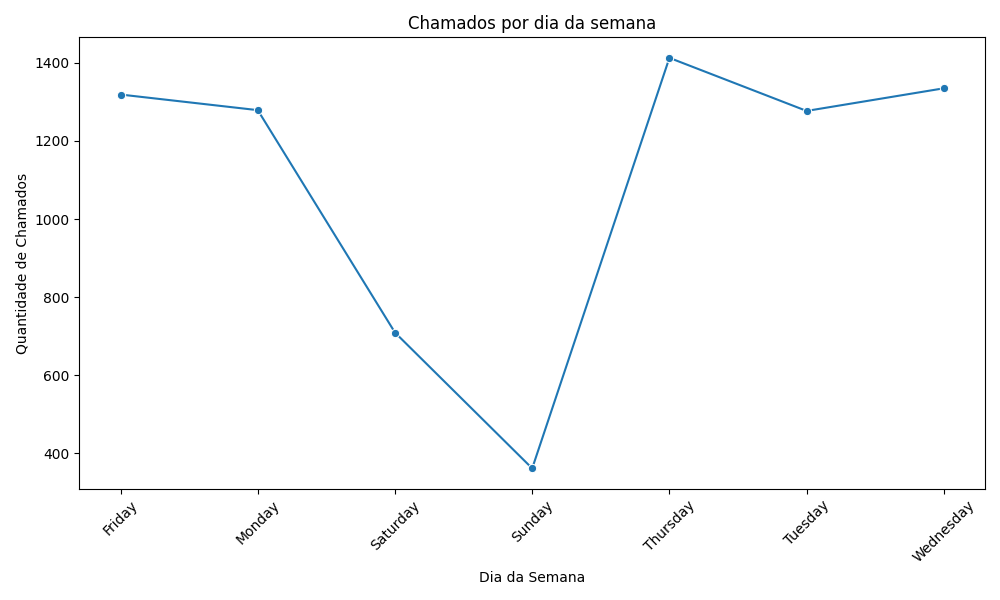
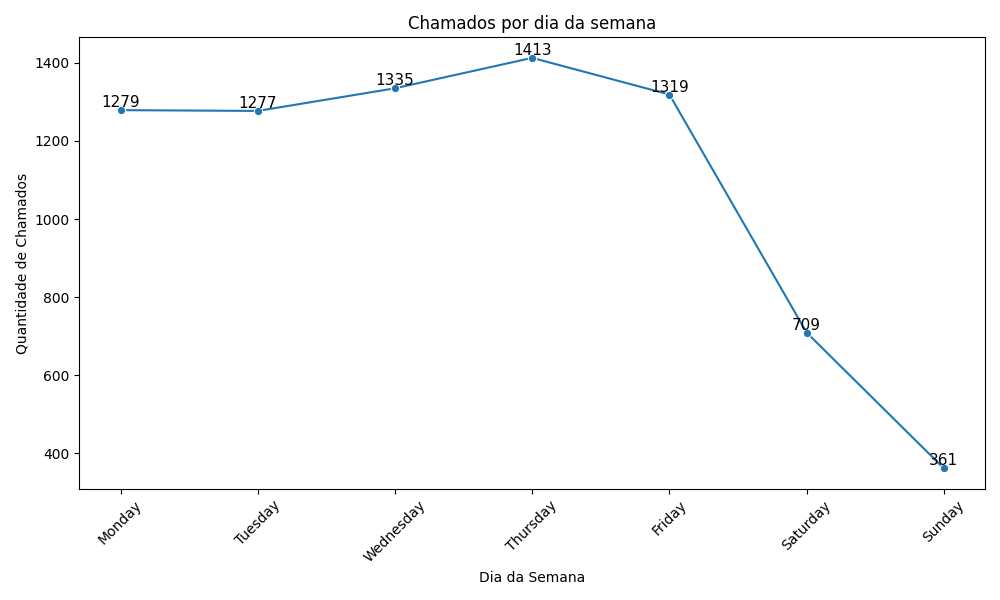
Atualização de graficos

diff --git a/src/analise_geral.py b/src/analise_geral.py
@@ -5,13 +5,46 @@ import seaborn as sns
 def resumo_geral(df: pd.DataFrame):
     """Exibe um resumo geral dos dados carregados."""
     
+    # Ordenar a coluna 'Dia_Semana' com a sequência correta
+    dias_da_semana = ['Monday', 'Tuesday', 'Wednesday', 'Thursday', 'Friday', 'Saturday', 'Sunday']
+    df['Dia_Semana'] = pd.Categorical(df['Dia_Semana'], categories=dias_da_semana, ordered=True)
+
     # Chamados por dia da semana
+    chamados_por_dia = df['Dia_Semana'].value_counts().sort_index()
+
     print("🔹 Chamados por dia da semana:")
-    print(df['Dia_Semana'].value_counts())
+    print(chamados_por_dia)
+
+    # Gráfico de chamados por dia da semana (com valores exatos)
+    plt.figure(figsize=(10, 6))
+    sns.barplot(x=chamados_por_dia.index, y=chamados_por_dia.values, palette='viridis')
+    for i, v in enumerate(chamados_por_dia.values):
+        plt.text(i, v + max(chamados_por_dia.values)*0.01, str(v), ha='center', va='bottom', fontsize=11)
+    plt.title('Chamados por dia da semana')
+    plt.xlabel('Dia da Semana')
+    plt.ylabel('Quantidade de Chamados')
+    plt.xticks(rotation=45)
+    plt.tight_layout()
+    plt.savefig('graficos/chamados_por_dia.png')
+    plt.show()
 
     # Chamados por hora do dia
     print("\n🔹 Chamados por hora do dia:")
-    print(df['Hora'].value_counts().sort_index())
+    chamados_por_hora = df['Hora'].value_counts().sort_index()
+    print(chamados_por_hora)
+
+    # Gráfico de chamados por hora do dia (com valores exatos)
+    plt.figure(figsize=(10, 6))
+    sns.barplot(x=chamados_por_hora.index, y=chamados_por_hora.values, palette='Blues')
+    for i, v in enumerate(chamados_por_hora.values):
+        plt.text(i, v + max(chamados_por_hora.values)*0.01, str(v), ha='center', va='bottom', fontsize=11)
+    plt.title('Chamados por hora do dia')
+    plt.xlabel('Hora do Dia')
+    plt.ylabel('Quantidade de Chamados')
+    plt.xticks(rotation=45)
+    plt.tight_layout()
+    plt.savefig('graficos/chamados_por_hora.png')
+    plt.show()
 
     # Percentual de chamados com avaliação
     if 'Avaliação' in df.columns:
@@ -32,28 +65,3 @@ def resumo_geral(df: pd.DataFrame):
         print(f"Tempo médio: {tempo_medio.mean()}")
     else:
         print("Colunas 'Iniciado_em' ou 'Finalizado_em' não encontradas.")
-    
-    # Gerar gráficos
-    # Gráfico de chamados por dia da semana
-    chamados_por_dia = df['Dia_Semana'].value_counts().sort_index()
-    plt.figure(figsize=(10, 6))
-    sns.barplot(x=chamados_por_dia.index, y=chamados_por_dia.values, palette='viridis')
-    plt.title('Chamados por dia da semana')
-    plt.xlabel('Dia da Semana')
-    plt.ylabel('Quantidade de Chamados')
-    plt.xticks(rotation=45)
-    plt.tight_layout()
-    plt.savefig('graficos/chamados_por_dia.png')  # Salvar o gráfico
-    plt.show()
-
-    # Gráfico de chamados por hora do dia
-    chamados_por_hora = df['Hora'].value_counts().sort_index()
-    plt.figure(figsize=(10, 6))
-    sns.barplot(x=chamados_por_hora.index, y=chamados_por_hora.values, palette='Blues')
-    plt.title('Chamados por hora do dia')
-    plt.xlabel('Hora do Dia')
-    plt.ylabel('Quantidade de Chamados')
-    plt.xticks(rotation=45)
-    plt.tight_layout()
-    plt.savefig('graficos/chamados_por_hora.png')  # Salvar o gráfico
-    plt.show()

diff --git a/src/previsao_chamados.py b/src/previsao_chamados.py
@@ -10,44 +10,31 @@ def previsao_volume_chamados(df: pd.DataFrame):
     df.columns = df.columns.str.strip()
 
     # Verifica se a coluna 'Iniciado em' existe
-    if 'Iniciado em' not in df.columns:
-        print("Coluna 'Iniciado em' não encontrada no DataFrame. Colunas disponíveis:", df.columns)
+    if 'Iniciado_em' not in df.columns:
+        print("Coluna 'Iniciado_em' não encontrada no DataFrame.")
         return
-    
-    # Converte a coluna 'Iniciado em' para o formato de data (formato dd/mm/yyyy hh:mm)
-    df['Iniciado em'] = pd.to_datetime(df['Iniciado em'], format='%d/%m/%Y %H:%M', errors='coerce')
 
-    # Verifica se houve erro na conversão (por exemplo, valores inválidos)
-    if df['Iniciado em'].isnull().any():
-        print("Existem valores inválidos na coluna 'Iniciado em'. Verifique os dados.")
-        return
-    
-    # Extração da semana do ano
-    df['Semana'] = df['Iniciado em'].dt.isocalendar().week
-    print("\n🔹 Previsão de volume de chamados por semana:")
+    # Converte para datetime
+    df['Iniciado_em'] = pd.to_datetime(df['Iniciado_em'], errors='coerce')
+    df['Semana'] = df['Iniciado_em'].dt.isocalendar().week
+
+    # Contagem de chamados por semana
     chamados_por_semana = df['Semana'].value_counts().sort_index()
+    print(f"\n🔹 Chamados por semana:")
     print(chamados_por_semana)
-    
-    # Gráfico (se necessário, adapte conforme os requisitos)
+
+    # Gráfico de chamados por semana
     plt.figure(figsize=(10, 6))
-    ax = sns.lineplot(x=chamados_por_semana.index, y=chamados_por_semana.values, marker='o')
-    
-    # Adicionando anotações de todos os valores exatos nos pontos
-    for i, value in enumerate(chamados_por_semana.values):
-        ax.text(chamados_por_semana.index[i], value, str(value), 
-                color='black', ha='center', va='bottom', fontsize=10)
-    
+    sns.lineplot(x=chamados_por_semana.index, y=chamados_por_semana.values, marker='o')
     plt.title('Volume de Chamados por Semana')
-    plt.xlabel('Semana do Ano')
+    plt.xlabel('Semana')
     plt.ylabel('Quantidade de Chamados')
+    plt.xticks(rotation=45)
+
+    # Adicionando os valores no gráfico
+    for i, v in enumerate(chamados_por_semana.values):
+        plt.text(i, v + 0.1, str(v), ha='center', va='bottom', fontsize=11)
+    
     plt.tight_layout()
-    plt.savefig('graficos/volume_chamados_por_semana.png')  # Salvar o gráfico
+    plt.savefig('graficos/previsao_volume_chamados.png')  # Salvar o gráfico
     plt.show()
-
-# Carregar os dados (ajuste o caminho do arquivo CSV conforme necessário)
-df_jan_mar = pd.read_csv('dados_tiflux/janeiro_março.csv', delimiter=';', encoding='utf-8')
-df_mar_abr = pd.read_csv('dados_tiflux/março_abril.csv', delimiter=';', encoding='utf-8')
-
-# Chamar a função para gerar o gráfico
-previsao_volume_chamados(df_jan_mar)
-previsao_volume_chamados(df_mar_abr)

diff --git a/src/analise_temporal.py b/src/analise_temporal.py
@@ -3,7 +3,7 @@ import seaborn as sns
 import matplotlib.pyplot as plt
 
 def chamados_por_temporalidade(df: pd.DataFrame):
-    """Exibe gráficos de chamados por dia da semana e por hora do dia."""
+    """Exibe gráficos de chamados por dia da semana e por hora do dia com numeração exata."""
     
     # Chamados por dia da semana
     chamados_por_dia = df['Dia_Semana'].value_counts().sort_index()
@@ -17,6 +17,11 @@ def chamados_por_temporalidade(df: pd.DataFrame):
     plt.xlabel('Dia da Semana')
     plt.ylabel('Quantidade de Chamados')
     plt.xticks(rotation=45)
+
+    # Adicionando os valores no gráfico
+    for i, v in enumerate(chamados_por_dia.values):
+        plt.text(i, v + 0.1, str(v), ha='center', va='bottom', fontsize=11)
+    
     plt.tight_layout()
     plt.savefig('graficos/chamados_por_dia.png')  # Salvar o gráfico
     plt.show()
@@ -33,6 +38,11 @@ def chamados_por_temporalidade(df: pd.DataFrame):
     plt.xlabel('Hora do Dia')
     plt.ylabel('Quantidade de Chamados')
     plt.xticks(rotation=45)
+
+    # Adicionando os valores no gráfico para cada hora
+    for i, v in enumerate(chamados_por_hora.values):
+        plt.text(i, v + 0.1, str(v), ha='center', va='bottom', fontsize=11)
+
     plt.tight_layout()
     plt.savefig('graficos/chamados_por_hora.png')  # Salvar o gráfico
     plt.show()

diff --git a/src/analise_tipo.py b/src/analise_tipo.py
@@ -6,12 +6,14 @@ def tipos_de_chamado(df: pd.DataFrame, n=10):
     coluna_tipo = 'Item_do_Catálogo'
     if coluna_tipo in df.columns:
         print(f"\nTop {n} tipos de chamados mais frequentes:")
-        print(df[coluna_tipo].value_counts().head(n))
+        tipos_frequentes = df[coluna_tipo].value_counts().head(n)
+        print(tipos_frequentes)
 
         # Gerar gráfico para os tipos mais frequentes
-        tipos_frequentes = df[coluna_tipo].value_counts().head(n)
         plt.figure(figsize=(10, 6))
         tipos_frequentes.plot(kind='bar', color='skyblue')
+        for i, v in enumerate(tipos_frequentes.values):  # Mostrar valores exatos no gráfico
+            plt.text(i, v + 0.05, str(v), ha='center', va='bottom', fontsize=12)
         plt.title(f'Top {n} Tipos de Chamados mais Frequentes')
         plt.xlabel('Tipo de Chamado')
         plt.ylabel('Quantidade de Chamados')

diff --git a/main.py b/main.py
@@ -15,7 +15,9 @@ def main():
     tipos_de_chamado(df)
     chamados_sem_tipo(df)
 
-    # Análise temporal
+
+
+    # Nova análise: chamados por semana dentro de cada mês
     chamados_por_temporalidade(df)
 
     # Previsão de volume de chamados
